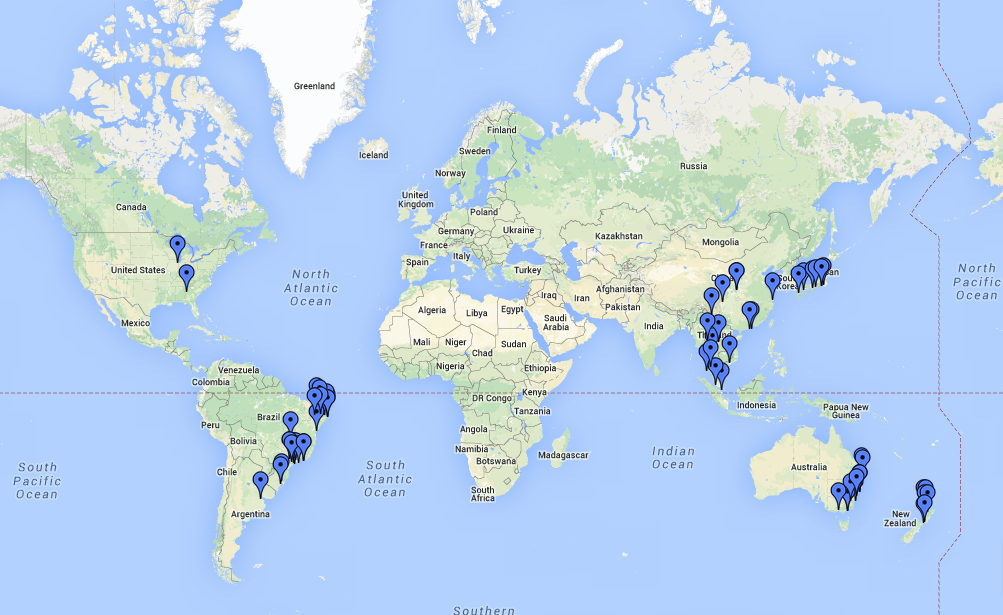
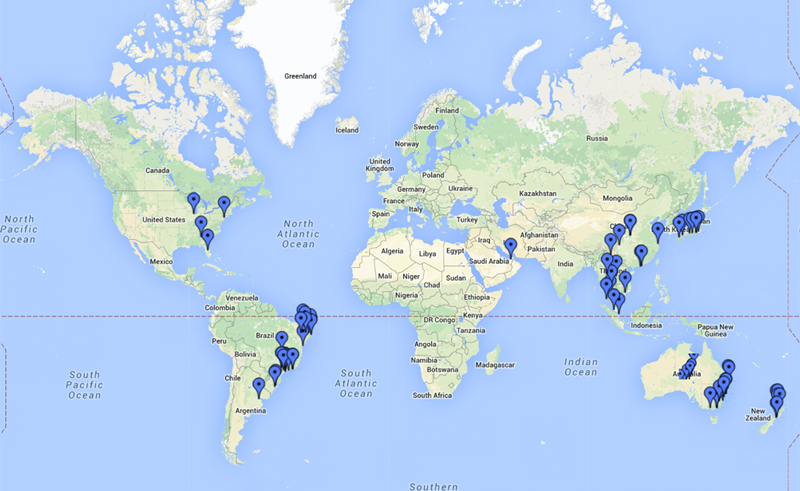
Adding 2 more cities to list

diff --git a/index.html b/index.html
@@ -135,7 +135,7 @@
 								<div class="6u"><a href="images/thumbs/maps2.png" class="image full r"><img src="images/thumbs/maps2.png" title="Travel" alt="" /></a></div>
 							</div>
 							<p>
-								I've <a href="https://mapsengine.google.com/map/embed?mid=zxUhvY_uhXiw.kwc_eW-TLg5c"></a>visited 66 cities around the world. Still a lot more to see...
+								I've <a href="https://mapsengine.google.com/map/embed?mid=zxUhvY_uhXiw.kwc_eW-TLg5c"></a>visited 68 cities around the world. Still a lot more to see...
 							</p>
 
 							<div class="row flush images">
